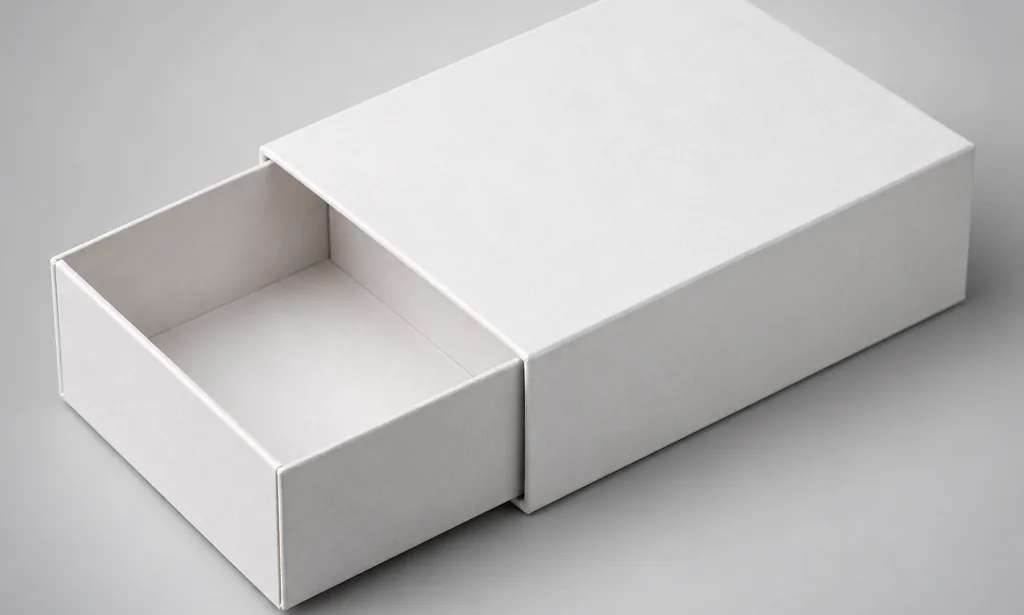
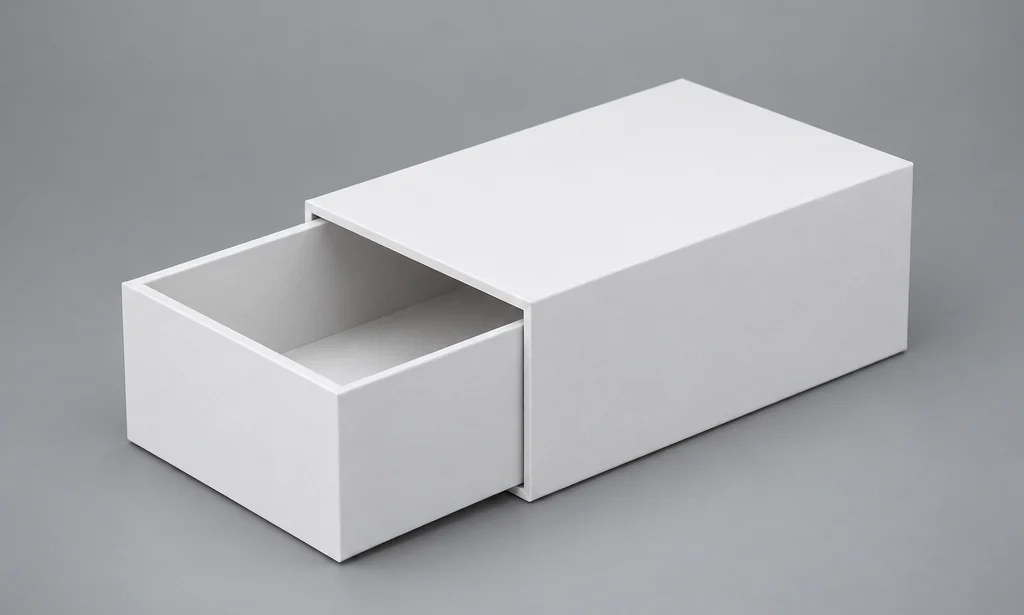
products: drawer box illustration replaced with the new catalogue render (empty tray a quarter out, compact box); alt text updated

diff --git a/fact-sheet.html b/fact-sheet.html
@@ -98,8 +98,8 @@
           <p class="small">Fluted board for fulfilment, multi-packs and export shipping. Printed or plain.</p>
         </li>
         <li>
-          <img src="assets/img/structure-drawer.webp?v=2a6bd87f32" width="1024" height="615" loading="lazy"
-               alt="Studio illustration of a drawer box with the tray pulled part of the way out of its sleeve. Illustration, not a specification.">
+          <img src="assets/img/structure-drawer.webp?v=e3af971605" width="1024" height="615" loading="lazy"
+               alt="Studio illustration of a two-piece drawer box with its empty tray pulled a quarter of the way out of the sleeve. Illustration, not a specification.">
           <h3>Rigid, book-style &amp; drawer boxes</h3>
           <p class="small">Wrapped board, assembled: lid and base, hinged book-style, and sliding drawer.</p>
         </li>

diff --git a/products.html b/products.html
@@ -222,8 +222,8 @@
     <div class="wrap">
       <div class="split">
         <figure class="hero__figure">
-          <img src="assets/img/structure-drawer.webp?v=2a6bd87f32" width="1024" height="615" loading="lazy"
-               alt="Studio illustration of a drawer box with the tray pulled part of the way out of its sleeve. Illustration, not a specification.">
+          <img src="assets/img/structure-drawer.webp?v=e3af971605" width="1024" height="615" loading="lazy"
+               alt="Studio illustration of a two-piece drawer box with its empty tray pulled a quarter of the way out of the sleeve. Illustration, not a specification.">
         </figure>
         <div>
           <p class="eyebrow">05 — Drawer boxes</p>

diff --git a/index.html b/index.html
@@ -304,8 +304,8 @@
         </article>
 
         <article class="card card--wide">
-          <img src="assets/img/structure-drawer.webp?v=2a6bd87f32" width="1024" height="615" loading="lazy"
-               alt="Studio illustration of a drawer box with the tray pulled part of the way out of its sleeve. Illustration, not a specification.">
+          <img src="assets/img/structure-drawer.webp?v=e3af971605" width="1024" height="615" loading="lazy"
+               alt="Studio illustration of a two-piece drawer box with its empty tray pulled a quarter of the way out of the sleeve. Illustration, not a specification.">
           <div class="card__body">
             <h3>Drawer boxes</h3>
             <p>
